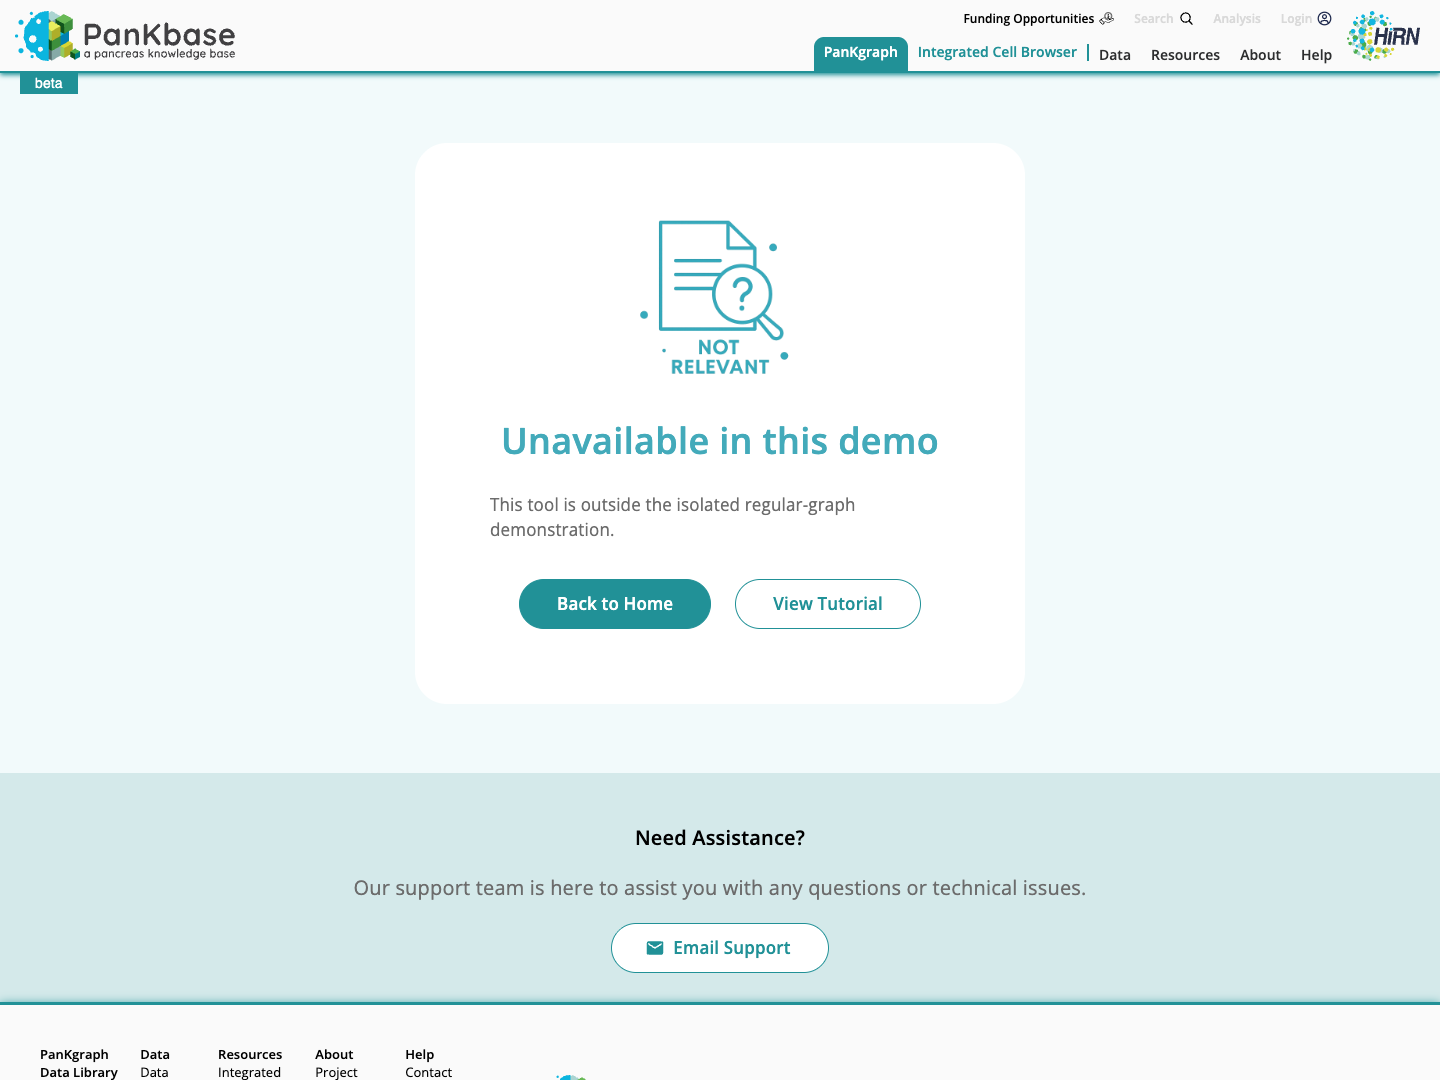
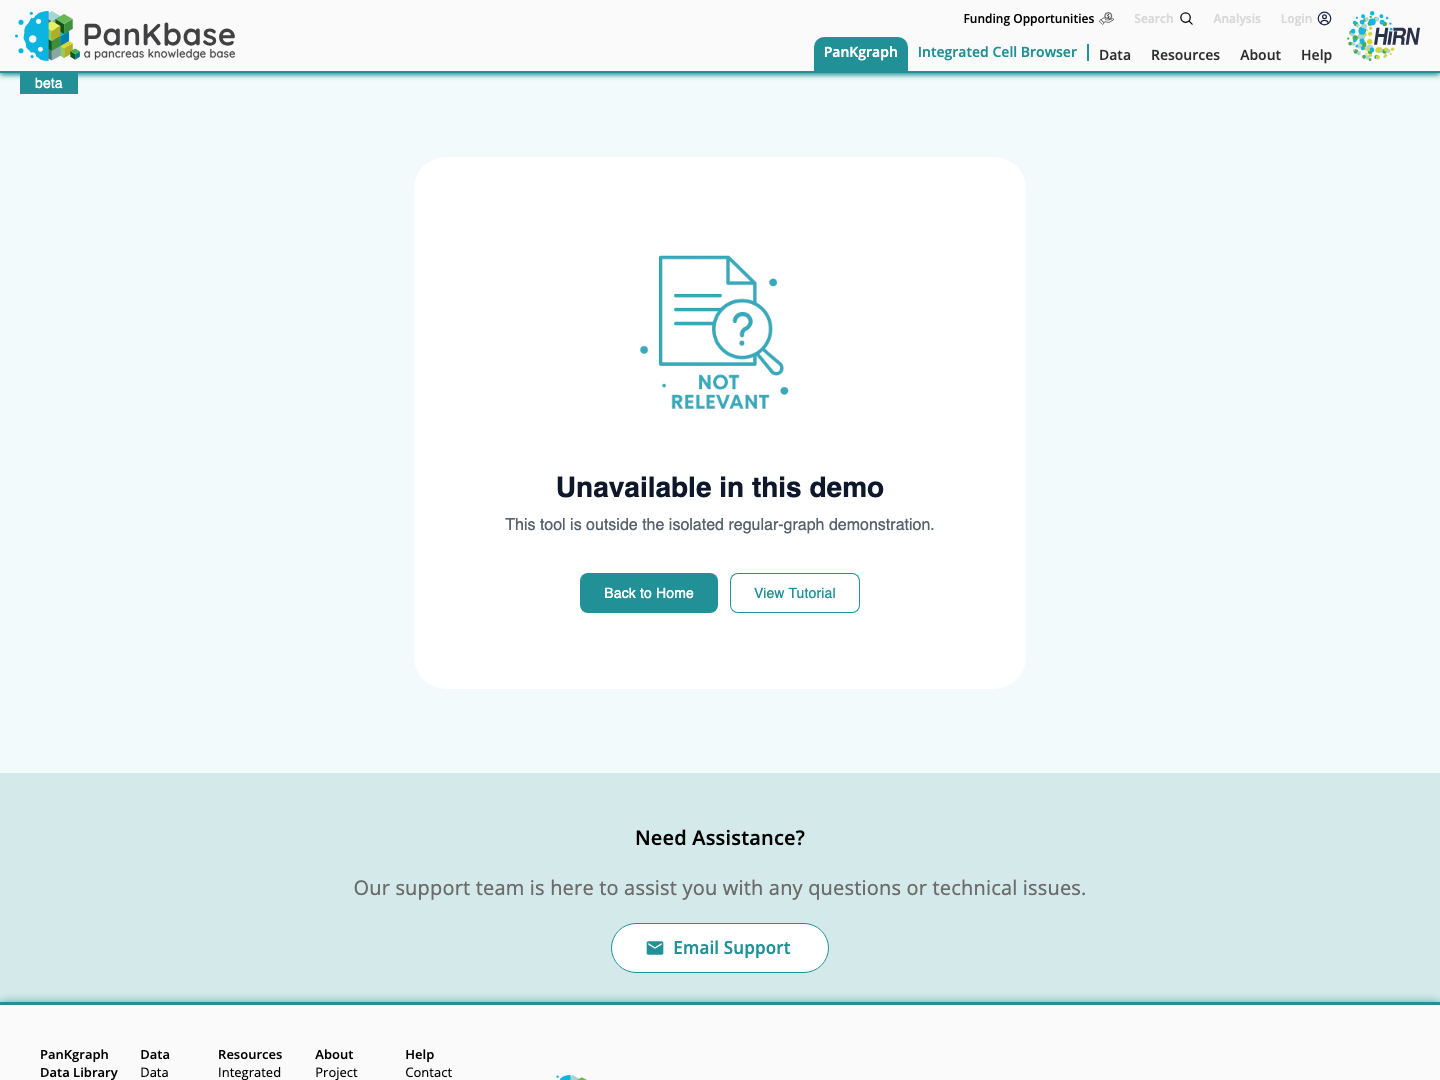
design: standardize empty-state panels on the design system, keeping their card size
Feature unavailable and no-QTL-records pages keep the existing 460px card
(76px padding, 32px radius, 36px gap, 200px illustration) and content
placement; only internals change: headline-medium title on-surface,
body-large supporting text 8px below, filled + outlined 40px buttons on
corner-small, 12px apart. New state-panel component tokens; previews
regenerated; design-system doc updated.

Changed region(s): [[0.3438, 0.1833, 0.6562, 0.5806]]

diff --git a/design/pankgraph-atlas/styles/message-states.css b/design/pankgraph-atlas/styles/message-states.css
@@ -44,39 +44,40 @@
 }
 .MuiAlert-root .MuiAlert-action .MuiIconButton-root:hover { background: var(--md-sys-state-hover-layer); }
 
-/* ---------- Empty / error state panel (illustration, title, body, actions) ---------- */
+/* ---------- Full-page state panel (illustration, title, body, actions) ----------
+   Container size and placement preserved from the existing pages; internals use system roles. */
 .MuiBox-root.pk-empty-state {
   display: flex;
   flex-direction: column;
   align-items: center;
   justify-content: center;
-  gap: var(--md-sys-spacing-4);
-  width: min(var(--md-comp-dialog-width), calc(100vw - var(--md-comp-dialog-margin) * 2));
-  box-sizing: border-box;
-  padding: var(--md-sys-spacing-8) var(--md-comp-dialog-padding);
-  border-radius: var(--md-sys-shape-corner-large);
+  gap: var(--md-comp-state-panel-gap);
+  width: var(--md-comp-state-panel-content-width);
+  max-width: calc(100vw - var(--md-comp-dialog-margin) * 2);
+  padding: var(--md-comp-state-panel-padding);
+  border-radius: var(--md-comp-state-panel-radius);
   background: var(--md-sys-color-surface);
-  box-shadow: var(--md-sys-elevation-1);
   text-align: center;
 }
-.MuiBox-root.pk-empty-state > img { width: var(--md-comp-empty-state-illustration); max-width: 100%; margin: 0; }
-/* L1 — panel title */
+.MuiBox-root.pk-empty-state > img { width: var(--md-comp-state-panel-illustration); max-width: 100%; margin: 0; }
+/* Title — headline-medium (page-level L1) */
 .MuiBox-root.pk-empty-state > .MuiTypography-body1:nth-of-type(1) {
   margin: 0;
-  font: var(--md-sys-typescale-headline-weight) var(--md-sys-typescale-headline-small-size) / var(--md-sys-typescale-headline-small-line-height) var(--md-ref-typeface-brand);
+  font: var(--md-sys-typescale-headline-weight) var(--md-sys-typescale-headline-medium-size) / var(--md-sys-typescale-headline-medium-line-height) var(--md-ref-typeface-brand);
   letter-spacing: var(--md-sys-typescale-headline-tracking);
   color: var(--md-sys-color-on-surface);
   white-space: normal;
 }
-/* L4 — supporting text, pulled up to the header-group gap */
+/* Supporting text — body-large, pulled up to the header-group gap (8px under the title) */
 .MuiBox-root.pk-empty-state > .MuiTypography-body1:nth-of-type(2) {
-  margin: calc(var(--md-sys-spacing-1) - var(--md-sys-spacing-4)) 0 0;
+  margin: calc(var(--md-sys-spacing-2) - var(--md-comp-state-panel-gap)) 0 0;
   max-width: 100%;
-  font: var(--md-sys-typescale-body-weight) var(--md-sys-typescale-body-medium-size) / var(--md-sys-typescale-body-medium-line-height) var(--md-ref-typeface-plain);
+  font: var(--md-sys-typescale-body-weight) var(--md-sys-typescale-body-large-size) / var(--md-sys-typescale-body-large-line-height) var(--md-ref-typeface-plain);
+  letter-spacing: var(--md-sys-typescale-body-tracking);
   color: var(--md-sys-color-on-surface-variant);
 }
-/* Actions */
-.MuiBox-root.pk-empty-state > .MuiBox-root { display: flex; flex-wrap: wrap; justify-content: center; gap: var(--md-sys-spacing-2); margin-top: var(--md-sys-spacing-2); }
+/* Actions — filled + outlined, 40px, corner-small, label-large */
+.MuiBox-root.pk-empty-state > .MuiBox-root { display: flex; flex-wrap: wrap; justify-content: center; gap: var(--md-sys-spacing-3); }
 .MuiBox-root.pk-empty-state .MuiButton-root {
   display: inline-flex;
   align-items: center;
@@ -90,14 +91,21 @@
   font: var(--md-sys-typescale-label-weight) var(--md-sys-typescale-label-large-size) / var(--md-sys-typescale-label-large-line-height) var(--md-ref-typeface-plain);
   letter-spacing: var(--md-sys-typescale-label-tracking);
   text-transform: none;
+  white-space: nowrap;
   box-shadow: none;
   transition: background-color var(--md-sys-motion-duration-short) var(--md-sys-motion-easing-standard);
 }
 .MuiBox-root.pk-empty-state .MuiButton-root .MuiTypography-root { margin: 0; font: inherit; letter-spacing: inherit; color: inherit; text-transform: none; }
 .MuiBox-root.pk-empty-state .MuiButton-contained { background-color: var(--md-sys-color-primary); color: var(--md-sys-color-on-primary); }
 .MuiBox-root.pk-empty-state .MuiButton-contained:hover { background-color: var(--md-sys-color-primary-hover); box-shadow: var(--md-sys-elevation-2); }
-.MuiBox-root.pk-empty-state .MuiButton-text { padding: 0 var(--md-comp-button-text-padding-x); background: transparent; color: var(--md-sys-color-on-surface-variant); }
-.MuiBox-root.pk-empty-state .MuiButton-text:hover { background: var(--md-sys-state-hover-layer); color: var(--md-sys-color-on-surface); }
+.MuiBox-root.pk-empty-state .MuiButton-outlined,
+.MuiBox-root.pk-empty-state .MuiButton-text {
+  background: var(--md-sys-color-surface);
+  color: var(--md-sys-color-primary);
+  box-shadow: inset 0 0 0 var(--md-comp-outline-width) var(--md-sys-color-primary);
+}
+.MuiBox-root.pk-empty-state .MuiButton-outlined:hover,
+.MuiBox-root.pk-empty-state .MuiButton-text:hover { background: var(--md-sys-color-secondary-container); box-shadow: inset 0 0 0 var(--md-comp-outline-width) var(--md-sys-color-primary); }
 .MuiBox-root.pk-empty-state .MuiButton-root:focus-visible { outline: var(--md-sys-focus-ring-width) solid var(--md-sys-color-primary); outline-offset: var(--md-sys-focus-ring-offset); }
 
 /* ---------- Inline error block (e.g. chart failed to load) ---------- */

diff --git a/design/pankgraph-atlas/pages/intermediate-empty.html b/design/pankgraph-atlas/pages/intermediate-empty.html
@@ -12,7 +12,9 @@
 <meta name="twitter:title" content="PanKBase – Pan-genome Knowledge Base | pankgraph.org">
 <meta name="twitter:description" content="PanKgraph is a T1D knowledge graph that integrates multi-omic and curated biological data into a unified framework for discovery, visualization, and reproducible diabetes research.">
 <link rel="stylesheet" href="../styles/5d10aa10be3090916c5b.css">
-<link rel="stylesheet" href="../styles/3981213a885f4a4cbe9d.css"></head>
+<link rel="stylesheet" href="../styles/3981213a885f4a4cbe9d.css">
+<link rel="stylesheet" href="../styles/design-tokens.css">
+<link rel="stylesheet" href="../styles/message-states.css"></head>
 <body>
 <div id="designer-fixture" style="position: relative; z-index: 99999; padding: 10px 24px; background: rgb(255, 246, 216); color: rgb(97, 73, 0); font: 600 13px Arial; text-align: center;">DESIGN FIXTURE · Synthetic values and EXAMPLE identifiers · No donor records or live scientific results</div>
 <div id="root">
@@ -74,7 +76,7 @@
 <main class="MuiBox-root css-1pap3d1">
 <div class="MuiContainer-root MuiContainer-disableGutters css-1nycy86">
 <div class="MuiBox-root css-1qwtaqf">
-<div class="MuiBox-root css-1htjl1f"><img class="MuiBox-root css-1yyt3iq" src="../assets/static/media/not_relevant.bf166cf6f66419d9f88d.png" alt="Error">
+<div class="MuiBox-root pk-empty-state css-1htjl1f"><img class="MuiBox-root css-1yyt3iq" src="../assets/static/media/not_relevant.bf166cf6f66419d9f88d.png" alt="Error">
 <p class="MuiTypography-root MuiTypography-body1 css-v513md">No QTL data found</p>
 <p class="MuiTypography-root MuiTypography-body1 css-t3lvr1">No QTL records were found for this gene in our PanKbase dataset.</p>
 <div class="MuiBox-root css-12hxhao"><button class="MuiButtonBase-root MuiButton-root MuiButton-contained MuiButton-containedPrimary MuiButton-sizeMedium MuiButton-containedSizeMedium MuiButton-colorPrimary MuiButton-root MuiButton-contained MuiButton-containedPrimary MuiButton-sizeMedium MuiButton-containedSizeMedium MuiButton-colorPrimary css-mrqyba" tabindex="0" type="button">

diff --git a/design/pankgraph-atlas/pages/unavailable.html b/design/pankgraph-atlas/pages/unavailable.html
@@ -12,7 +12,9 @@
 <meta name="twitter:title" content="PanKBase – Pan-genome Knowledge Base | pankgraph.org">
 <meta name="twitter:description" content="PanKgraph is a T1D knowledge graph that integrates multi-omic and curated biological data into a unified framework for discovery, visualization, and reproducible diabetes research.">
 <link rel="stylesheet" href="../styles/df8d0a5d0a0c475798cb.css">
-<link rel="stylesheet" href="../styles/3981213a885f4a4cbe9d.css"></head>
+<link rel="stylesheet" href="../styles/3981213a885f4a4cbe9d.css">
+<link rel="stylesheet" href="../styles/design-tokens.css">
+<link rel="stylesheet" href="../styles/message-states.css"></head>
 <body>
 <div id="root">
 <div class="MuiContainer-root MuiContainer-disableGutters css-1h4exh5">
@@ -54,7 +56,7 @@
 <div style="flex: 1 1 0%; display: flex; flex-direction: column;">
 <div class="MuiContainer-root MuiContainer-disableGutters css-1nycy86">
 <div class="MuiBox-root css-1qwtaqf">
-<div class="MuiBox-root css-1htjl1f"><img class="MuiBox-root css-1yyt3iq" src="../assets/static/media/not_relevant.bf166cf6f66419d9f88d.png" alt="Error">
+<div class="MuiBox-root pk-empty-state css-1htjl1f"><img class="MuiBox-root css-1yyt3iq" src="../assets/static/media/not_relevant.bf166cf6f66419d9f88d.png" alt="Error">
 <p class="MuiTypography-root MuiTypography-body1 css-v513md">Unavailable in this demo</p>
 <p class="MuiTypography-root MuiTypography-body1 css-t3lvr1">This tool is outside the isolated regular-graph demonstration.</p>
 <div class="MuiBox-root css-12hxhao"><button class="MuiButtonBase-root MuiButton-root MuiButton-contained MuiButton-containedPrimary MuiButton-sizeMedium MuiButton-containedSizeMedium MuiButton-colorPrimary MuiButton-root MuiButton-contained MuiButton-containedPrimary MuiButton-sizeMedium MuiButton-containedSizeMedium MuiButton-colorPrimary css-mrqyba" tabindex="0" type="button">

diff --git a/design/pankgraph-atlas/styles/design-tokens.css b/design/pankgraph-atlas/styles/design-tokens.css
@@ -150,7 +150,12 @@
   --md-comp-scrim-blur:              8px;
   --md-comp-alert-padding-y:         12px;   /* inline alert / banner */
   --md-comp-alert-padding-x:         16px;
-  --md-comp-empty-state-illustration: 160px; /* empty / error state artwork */
+  /* Full-page state panel (unavailable / no data / error). Dimensions preserve the existing card. */
+  --md-comp-state-panel-content-width: 460px;
+  --md-comp-state-panel-padding:       76px;   /* 75 → nearest 4px step */
+  --md-comp-state-panel-gap:           36px;
+  --md-comp-state-panel-radius:        32px;
+  --md-comp-state-panel-illustration:  200px;
 }
 
 /* Reusable typography classes — apply instead of restating sizes. */

diff --git a/design/pankgraph-atlas/DESIGN-SYSTEM.md b/design/pankgraph-atlas/DESIGN-SYSTEM.md
@@ -26,6 +26,7 @@ Every dialog reads in five levels. Pick the level, never a size.
 | 4 | label-small | 11 / 16 | 500 | on-secondary-container | Tertiary badges ("Recommended"), sentence case |
 | — | label-large | 14 / 20 | 500 | — | Buttons |
 | — | title-large | 22 / 28 | 700 | on-surface | Dialog title below 600px |
+| 1 (page) | headline-medium | 28 / 36 | 700 | on-surface | Title of a full-page state panel (unavailable, no data) |
 
 Inline annotations inside primary content (for example "(stage 3)") keep the level-3 size and take the level-4 color. Captions that merely name a piece of content (such as "Your original question") are level 4, not level 2; level 2 is reserved for labels that introduce controls. No divider rules under labels: hierarchy comes from type, color and spacing.
 
@@ -61,7 +62,7 @@ Inline messages share the dialog's tokens so a banner, an empty state and a reco
 | --- | --- | --- |
 | Info alert (MuiAlert standard) | "Reconnecting to the saved result…" banners, plan / streaming notices | `primary-container` fill, corner-medium, 12 × 16 padding, 24px primary icon, body-medium on-surface text, no border |
 | Outlined alert (MuiAlert outlined) | Selection hints on credible-set pages | Same, but `surface` fill with 1px `outline`; action icon button 40px |
-| Empty / error state panel | Available for empty / error pages (`.pk-empty-state`); the current "Feature unavailable" and "no QTL records" captures keep their original design by request | 800px max (same as dialogs), corner-large, elevation-1, 32 × 24 padding, centered; 160px illustration → L1 title → L4 supporting text (4px below title) → actions (filled + text, 40px) |
+| Full-page state panel | Feature unavailable, no QTL records (and any future empty / no-data / error page) | Keeps the existing card: 460px content + 76px padding (≈ 612px), corner 32px, 36px gap, 200px illustration, centered. Internals on system roles: headline-medium title (on-surface), body-large supporting text (on-surface-variant, 8px under the title), filled + outlined 40px buttons, 12px apart |
 | Outlined text input | Every MUI outlined field on message pages and in dialogs | 1px `outline` border; `outline-hover` on hover; unchanged on focus/typing; `error` when invalid. Sizes come from the field's own component token |
 | Inline error block | Chart failed to load | `error-container` fill, 1px `error-outline`, corner-medium, 16px padding; title-small in `error`, body-small in `on-error-container` |
 
@@ -94,7 +95,7 @@ Inline messages share the dialog's tokens so a banner, an empty state and a reco
 | Section label → controls gap | `--md-comp-section-label-gap` | 8 |
 | Outline | `--md-comp-outline-width` / `-focus` | 1 / 2 (2 only marks a selected option card; inputs never use it) |
 | Alert padding | `--md-comp-alert-padding-y` / `-x` | 12 / 16 |
-| Empty-state illustration | `--md-comp-empty-state-illustration` | 160 |
+| State panel | `--md-comp-state-panel-content-width` / `-padding` / `-gap` / `-radius` / `-illustration` | 460 / 76 / 36 / 32 / 200 |
 
 ## Color roles
 
